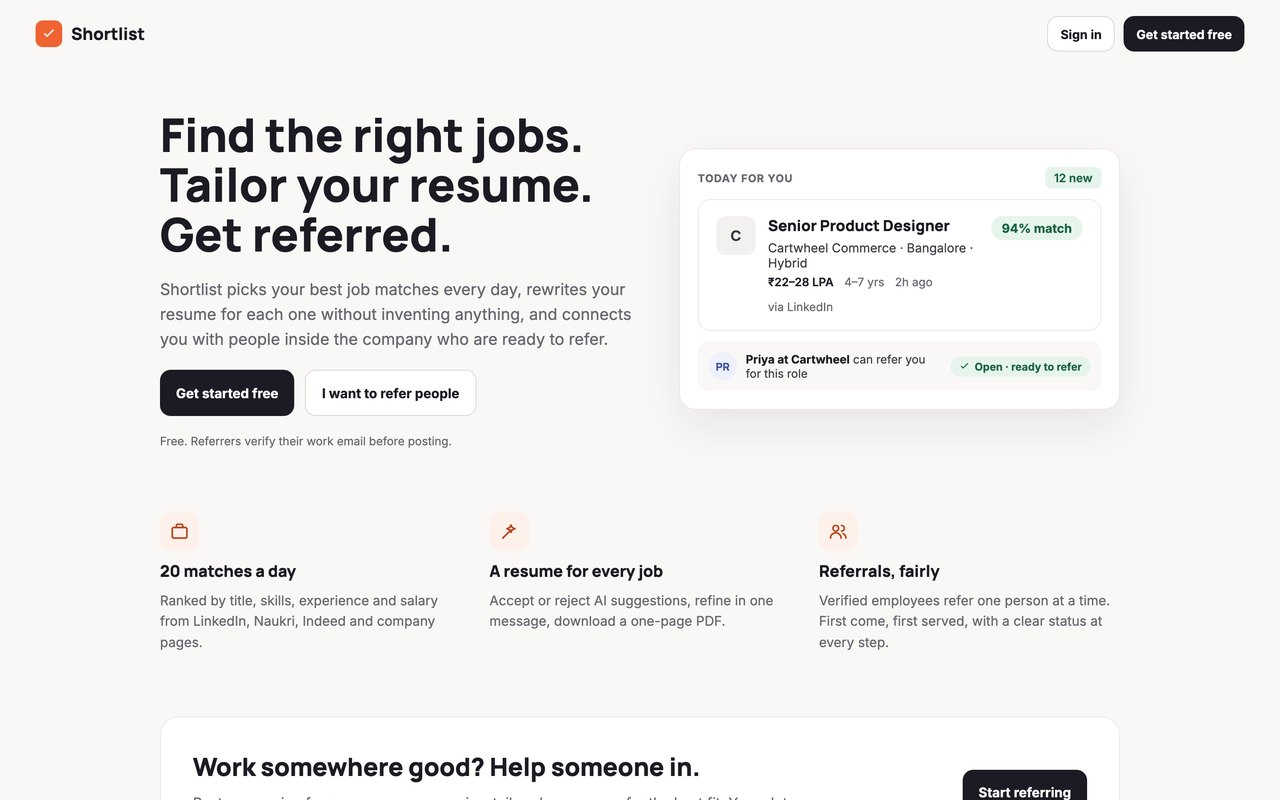
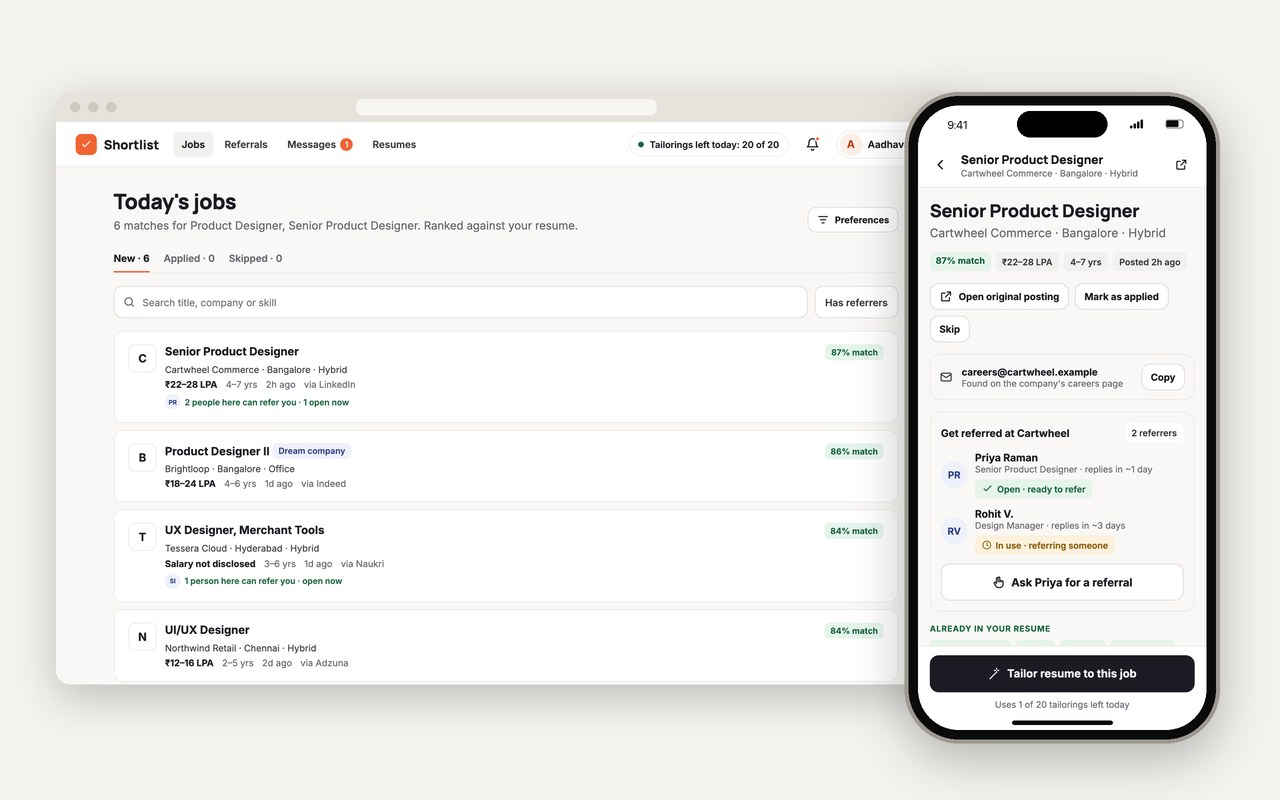
Playground: new Shortlist card preview from the real app

diff --git a/src/playground.ts b/src/playground.ts
@@ -52,7 +52,7 @@ export const playgroundItems: PlaygroundItem[] = [
     icon: "briefcase",
     tags: ["AI", "Web and Android", "Two-sided"],
     src: "/playground/shortlist-demo/index.html",
-    preview: "/assets/playground/shortlist.jpg",
+    preview: "/assets/playground/shortlist.jpg?v=2",
     note: "The working app on web and iPhone, with live AI resume reading, tailoring and refining.",
     study: {
       kind: "Concept · web and Android",
